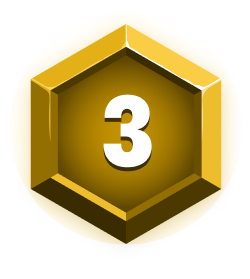
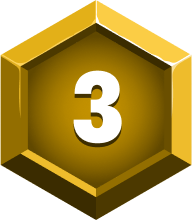
Website updates [WIP]

diff --git a/js/index.js b/js/index.js
@@ -1,1 +1,1 @@
-window.addEventListener("load",(function(){firebase.initializeApp({apiKey:"AIzaSyC_Q6NGnDyKd8WM7e4yxg757_yB-g7QsRo",authDomain:"tusl-5a507.firebaseapp.com",projectId:"tusl-5a507",appId:"1:775259817894:web:a3cc3e8dcdb656619b7167"});const e=firebase.firestore();$("#waitlist-form").length&&document.getElementById("waitlist-form").addEventListener("submit",(async function(t){t.preventDefault(),$("#waitlist-form").addClass("readonly"),$("#waitlist-form input.button").val("Sending");const r=document.getElementById("email").value,a=document.querySelector('input[name="platform"]:checked').value;try{const t=await e.collection("waitlist").add({email:r,platform:a,timestamp:firebase.firestore.FieldValue.serverTimestamp()});localStorage.setItem("waitlistDocId",t.id),window.location.href="/success.html"}catch(e){$("#waitlist-form").removeClass("readonly"),$("#waitlist-form input.button").val("Join Waitlist"),console.error("Error registering in Firestore:",e)}})),$("#referral-form").length&&document.getElementById("referral-form").addEventListener("submit",(async function(t){t.preventDefault(),$("#referral-form").addClass("readonly"),$("#referral-form input.button").val("Sending");const r=localStorage.getItem("waitlistDocId");if(!r)return;const a=Array.from(document.querySelectorAll(".referral-input")).map((e=>e.value.trim())).filter((e=>e.length>0));try{await e.collection("waitlist").doc(r).update({referrals:a}),$(".success-form").fadeIn()}catch(e){$("#referral-form").removeClass("readonly"),$("#referral-form input.button").val("Submit"),console.error("Error saving referrals:",e)}}));let t=new Set,r=new IntersectionObserver((e=>{const a=e.filter((e=>e.isIntersecting&&!t.has(e.target))).map((e=>e.target));a.length>0&&(gsap.to(a,{opacity:1,y:0,stagger:.15,ease:"power2.out",duration:.5,delay:.3}),a.forEach((e=>{t.add(e),r.unobserve(e)})))}),{threshold:.3});document.querySelectorAll("[data-fade]").forEach((e=>{r.observe(e)}))}));
+window.addEventListener("load",(function(){firebase.initializeApp({apiKey:"AIzaSyC_Q6NGnDyKd8WM7e4yxg757_yB-g7QsRo",authDomain:"tusl-5a507.firebaseapp.com",projectId:"tusl-5a507",appId:"1:775259817894:web:a3cc3e8dcdb656619b7167"});const e=firebase.firestore();$("#waitlist-form").length&&document.getElementById("waitlist-form").addEventListener("submit",(async function(t){t.preventDefault(),$("#waitlist-form").addClass("readonly"),$("#waitlist-form input.button").val("Sending");const r=document.getElementById("email").value,a=document.querySelector('input[name="platform"]:checked').value;try{const t=await e.collection("waitlist").add({email:r,platform:a,timestamp:firebase.firestore.FieldValue.serverTimestamp()});localStorage.setItem("waitlistDocId",t.id),window.location.href="/success.html"}catch(e){$("#waitlist-form").removeClass("readonly"),$("#waitlist-form input.button").val("Join Waitlist"),console.error("Error registering in Firestore:",e)}})),$("#referral-form").length&&document.getElementById("referral-form").addEventListener("submit",(async function(t){t.preventDefault(),$("#referral-form").addClass("readonly"),$("#referral-form input.button").val("Sending");const r=localStorage.getItem("waitlistDocId");if(!r)return;const a=Array.from(document.querySelectorAll(".referral-input")).map((e=>e.value.trim())).filter((e=>e.length>0));try{await e.collection("waitlist").doc(r).update({referrals:a}),$(".success-form").fadeIn()}catch(e){$("#referral-form").removeClass("readonly"),$("#referral-form input.button").val("Submit"),console.error("Error saving referrals:",e)}})),$(window).scroll((function(){$(window).scrollTop()>=1?$("nav").addClass("scrolled"):$("nav").removeClass("scrolled")}));let t=new Set,r=new IntersectionObserver((e=>{const a=e.filter((e=>e.isIntersecting&&!t.has(e.target))).map((e=>e.target));a.length>0&&(gsap.to(a,{opacity:1,y:0,stagger:.15,ease:"power2.out",duration:.5,delay:.3}),a.forEach((e=>{t.add(e),r.unobserve(e)})))}),{threshold:.3});document.querySelectorAll("[data-fade]").forEach((e=>{r.observe(e)}))}));

diff --git a/css/styles.scss b/css/styles.scss
@@ -177,7 +177,8 @@ nav{
     padding: 25px 0;
     background-color: rgba(1, 0, 35, 0.6);
     backdrop-filter: blur(4px);
-    border-bottom: 1px solid rgba(255, 255, 255, 0.2);
+    border-bottom: 1px solid rgba(255, 255, 255, 0.1);
+    transition: all .4s ease-in-out;
     z-index: 9;
     .inner-navigation{
         display: flex;
@@ -185,11 +186,26 @@ nav{
         align-items: center;
         img{
             max-width: 198px;
+            transition: all .4s ease-in-out;
         }
     }
     &.is-transparent{
         background-color: transparent;
         border-bottom: none;
+    }
+    &.scrolled{
+        background-color: rgba(1, 0, 35, 0.8);
+        padding: 15px 0;
+        position: fixed;
+        .inner-navigation{
+            img{
+                max-width: 150px;
+            }
+            .button{
+                font-size: 14px;
+                padding: 8px 20px 6px;
+            }
+        }
     }
     @media(max-width: 575px){
         padding: 15px 0;
@@ -200,6 +216,13 @@ nav{
             .button{
                 font-size: 14px;
                 padding: 8px 20px 6px;
+            }
+        }
+        &.scrolled{
+            .inner-navigation{
+                img{
+                    max-width: 120px;
+                }
             }
         }
     }
@@ -397,9 +420,9 @@ nav{
             z-index: 1;
         }
         img{
-            max-width: 125px;
+            max-width: 96px;
             position: absolute;
-            bottom: -75px;
+            bottom: -55px;
             margin: 0 auto;
             left: 0;
             right: 0;
@@ -445,8 +468,8 @@ nav{
                 min-height: auto;
             }
             img{
-                max-width: 85px;
-                bottom: -50px;
+                max-width: 75px;
+                bottom: -45px;
             }
         }
     }

diff --git a/css/styles.css b/css/styles.css
@@ -9066,7 +9066,9 @@ nav {
   padding: 25px 0;
   background-color: rgba(1, 0, 35, 0.6);
   backdrop-filter: blur(4px);
-  border-bottom: 1px solid rgba(255, 255, 255, 0.2);
+  border-bottom: 1px solid rgba(255, 255, 255, 0.1);
+  -webkit-transition: all 0.4s ease-in-out;
+  transition: all 0.4s ease-in-out;
   z-index: 9;
 }
 nav .inner-navigation {
@@ -9082,10 +9084,24 @@ nav .inner-navigation {
 }
 nav .inner-navigation img {
   max-width: 198px;
+  -webkit-transition: all 0.4s ease-in-out;
+  transition: all 0.4s ease-in-out;
 }
 nav.is-transparent {
   background-color: transparent;
   border-bottom: none;
+}
+nav.scrolled {
+  background-color: rgba(1, 0, 35, 0.8);
+  padding: 15px 0;
+  position: fixed;
+}
+nav.scrolled .inner-navigation img {
+  max-width: 150px;
+}
+nav.scrolled .inner-navigation .button {
+  font-size: 14px;
+  padding: 8px 20px 6px;
 }
 @media (max-width: 575px) {
   nav {
@@ -9097,6 +9113,9 @@ nav.is-transparent {
   nav .inner-navigation .button {
     font-size: 14px;
     padding: 8px 20px 6px;
+  }
+  nav.scrolled .inner-navigation img {
+    max-width: 120px;
   }
 }
 
@@ -9303,9 +9322,9 @@ nav.is-transparent {
   z-index: 1;
 }
 #how-works .inner-card img {
-  max-width: 125px;
+  max-width: 96px;
   position: absolute;
-  bottom: -75px;
+  bottom: -55px;
   margin: 0 auto;
   left: 0;
   right: 0;
@@ -9354,8 +9373,8 @@ nav.is-transparent {
     min-height: auto;
   }
   #how-works .inner-card img {
-    max-width: 85px;
-    bottom: -50px;
+    max-width: 75px;
+    bottom: -45px;
   }
 }
 @media (max-width: 425px) {

diff --git a/index.html b/index.html
@@ -17,7 +17,7 @@
     <!-- Open Graph / Facebook -->
     <meta property="og:type" content="website" />
     <meta property="og:url" content="" />
-    <meta property="og:title" content="World's Newest Gamified Sports Entertainment League"/>
+    <meta property="og:title" content="TUSL - World's Newest Gamified Sports Entertainment League"/>
     <meta property="og:description" content="Compete against the best. Climb the TUSL Tryouts Leaderboard. Claim your rank and become a pro." />
     <meta property="og:image" content="/og-image.webp" />
     <meta property="og:image:secure_url" content="" /> 
@@ -26,7 +26,7 @@
 
     <!-- Twitter Cards -->
     <meta name="twitter:card" content="summary_large_image">
-    <meta name="twitter:title" content="World's Newest Gamified Sports Entertainment League">
+    <meta name="twitter:title" content="TUSL - World's Newest Gamified Sports Entertainment League">
     <meta name="description" content="Compete against the best. Climb the TUSL Tryouts Leaderboard. Claim your rank and become a pro.">
     <meta name="twitter:image" content="/og-image.webp">
 

diff --git a/js/app.js b/js/app.js
@@ -77,6 +77,16 @@ window.addEventListener('load', function() {
         });
     }
 
+    // Fix navbar when scroll
+    $(window).scroll(function () {
+        var scroll = $(window).scrollTop();
+        if (scroll >= 1) {
+            $('nav').addClass('scrolled');
+        } 
+        else {
+            $('nav').removeClass('scrolled');
+        }
+    });
 
     // Animations
     let animatedElements = new Set(); // Para evitar reanimaciones
